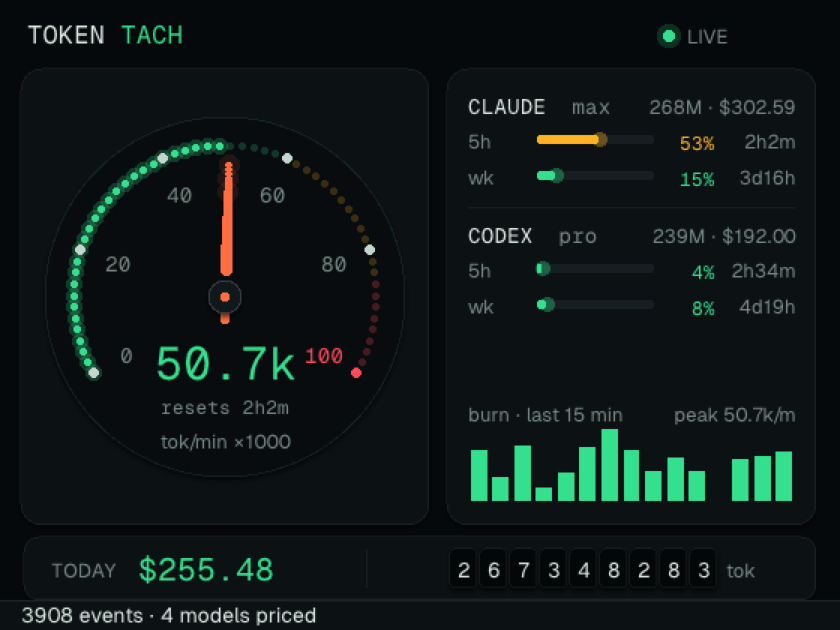
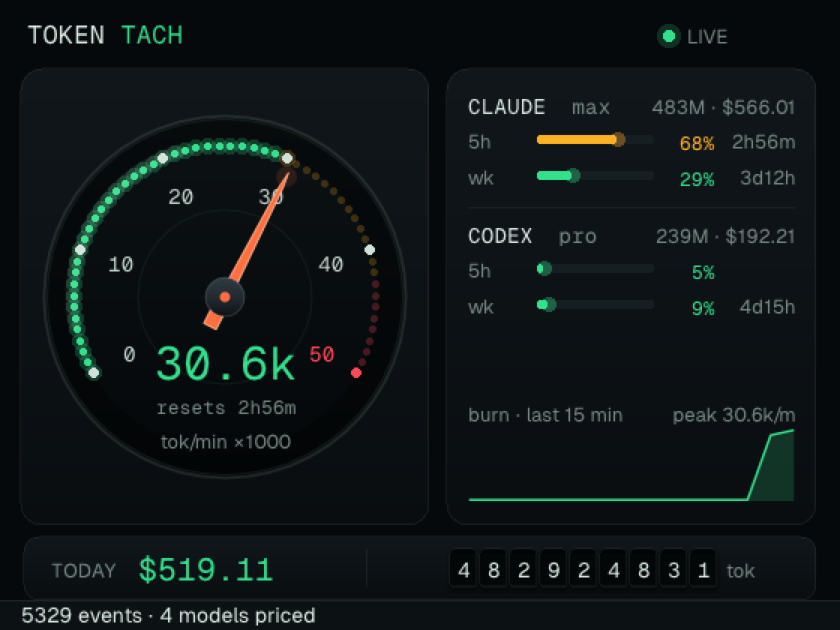
docs: README as narrative — craft story, perf numbers, fresh hero shots

diff --git a/README.md b/README.md
@@ -1,35 +1,70 @@
 # token-tach
 
 A macOS menu-bar tachometer for AI coding-agent token usage and subscription
-limits. LiteLLM-dashboard truth without the proxy: everything is read from
-the session ledgers your agents already write, plus each vendor's own limit
-data.
+limits. It reads the session ledgers your agents already write — no proxy,
+no accounts, no telemetry — and turns them into an instrument.
 
 ```
-⚡ 214k/m → wall 3:40p          ← the menu bar, all day
+⚡ 50.7k/m → wall 3:40p          ← the menu bar, all day
 ```
 
-Click it:
-
-```
-claude  172M tok · $202.80 · 5h 34% · wk 12% · max
-codex   188M tok · $154.16 · 5h 3%  · wk 8%  · pro
-today   $114.85 · 116M tok
-```
+One click:
 
 ![the tach cluster](docs/assets/cluster.png)
 
+And yes — the needle does the full ignition sweep every time you open it:
+
+![ignition sweep](docs/assets/ignition.png)
+
 ## What it shows
 
-- **Burn rate** — limit-weighted tokens/minute (cache reads at 0.1×),
-  decayed over a 15-minute window. The needle.
+- **Burn rate** — limit-weighted tokens/minute (cache reads at 0.1×, because
+  that's roughly how they press on your quota), decayed over a 15-minute
+  window. The needle.
 - **Predicted wall** — "at this pace you hit a limit at 3:40 PM", projected
   from the *slope of the vendors' own utilization numbers*, not guessed
   token capacities.
 - **Window utilization** — Claude 5-hour / weekly (server truth) and Codex
-  5-hour / weekly (embedded in its logs), with reset countdowns.
-- **Today's spend** — API-equivalent dollars for what your subscription
-  absorbed, priced against LiteLLM's model-price database.
+  5-hour / weekly (embedded in its own logs), with reset countdowns and
+  threshold coloring.
+- **Today's spend** — API-equivalent dollars your subscription absorbed,
+  priced against LiteLLM's model database, on a mechanical odometer.
+
+## Why it's fast
+
+The binary is **~2.4 MB** — no Electron, no webview, no JS runtime. Native
+Zig on [Native SDK](https://github.com/vercel-labs/native), drawing every
+pixel through Metal.
+
+- **Cold launch**: window up instantly; months of JSONL history parse in
+  byte-budgeted 30 ms background chunks (~600 ms total) that never block a
+  frame.
+- **Warm launch**: tailer offsets and ledger rollups persist to an atomic
+  state file, so the next launch restores in **~2 ms** and re-reads only
+  what grew.
+- **Steady state**: the 2-second sweep costs **~0.1 ms** when nothing
+  changed (dir-mtime + hot-file detection; full re-walk only every 30 s).
+
+## How it's built (the fun parts)
+
+- **The popover is a patched framework.** Native SDK had a tray API but no
+  `NSPopover`, no dock-less mode, no launch-at-login — so this repo vendors
+  [a fork](https://github.com/phall1/native/tree/token-tach-patches) that
+  adds all three to its Objective-C AppKit host, with the popover reparenting
+  the app's Metal surface in and out of an `NSViewController`.
+- **The needle is real geometry.** The widget grammar rasterizes rects
+  axis-aligned, so the blade is a tapered vector path drawn through the
+  chrome display-list seam — the one primitive that stays true under the
+  render-animation rotation channel. Rest pose is always truth; animations
+  replay only deltas.
+- **Server-truth limits, no scraping.** Claude's 5h/weekly utilization comes
+  from the same OAuth endpoint Claude Code's `/usage` uses. Codex is even
+  better: it writes its `rate_limits` straight into its rollout files —
+  zero network for OpenAI numbers.
+- **Everything is fixture-tested.** ~100 tests over the UI-free core
+  (tailers, pricing, prediction, ledger, config, state), and `scripts/verify`
+  launches the real app headlessly, toggles the actual popover, walks the
+  accessibility tree, and screenshots it — locally and in CI.
 
 ## Where the data comes from (the trust story)
 
@@ -38,35 +73,38 @@ today   $114.85 · 116M tok
 | Source | What | How |
 |---|---|---|
 | Claude Code | tokens per message | tails `~/.claude/projects/**/*.jsonl` (and `$CLAUDE_CONFIG_DIR`), dedupes on `message.id:requestId` |
-| Codex CLI | tokens **and** 5h/weekly limit % | tails `~/.codex/sessions/**` — Codex embeds `rate_limits` in its own logs, so no network is involved |
+| Codex CLI | tokens **and** 5h/weekly limit % | tails `~/.codex/sessions/**` — limits are embedded in the logs |
 | Pricing | $/token rates | bundled snapshot of LiteLLM's `model_prices_and_context_window.json` |
 
-**Opt-in (`claude-oauth = true` in the config):** Claude's *server-truth*
-window utilization comes from the same endpoint Claude Code's `/usage` uses:
+**Opt-in (`claude-oauth = true`):** Claude's server-truth utilization via
 `GET https://api.anthropic.com/api/oauth/usage` with your existing Claude
-Code OAuth token (read from the macOS Keychain item
-`Claude Code-credentials` via Apple's `security` tool — macOS will ask for
-consent). Polled every 180 s, exponential backoff on 429, nothing else is
-sent — the request carries only your token and standard headers. Off by
-default; the app never writes to the Keychain and never talks to any other
-host.
+Code OAuth token (read from the Keychain item `Claude Code-credentials`
+via Apple's `security` tool — macOS asks for consent). Polled every 180 s,
+exponential backoff on 429. The request carries your token and standard
+headers, nothing else, to that host and no other. The app never writes to
+the Keychain. Off by default.
 
 ## Install
 
 ```sh
 git clone --recurse-submodules https://github.com/phall1/token-tach
 cd token-tach
-scripts/setup        # hooks, submodules, toolchain check (zig ≥ 0.16, native CLI)
-native build && ./zig-out/bin/token-tach
+scripts/setup                          # hooks, submodules, toolchain, fork CLI
+vendor/native/zig-out/bin/native build
+open zig-out/bin/token-tach            # or scripts/release for a .app/DMG
 ```
 
-Package a .app / DMG: `scripts/release` (adhoc) or
-`scripts/release --identity "Developer ID Application: …" --notarize`.
+Or grab the DMG from
+[releases](https://github.com/phall1/token-tach/releases) (adhoc-signed for
+now: right-click → Open the first time).
+
+It's an accessory app: no Dock icon — look for the glance in the menu bar.
+Left-click for the cluster, right-click for quick stats and Quit.
 
 ## Configure
 
-`~/.config/token-tach/config` — plain `key = value`, ghostty-style, every
-default overridable:
+`~/.config/token-tach/config` — plain `key = value`, ghostty-style,
+**live-reloaded** (edit it and watch the tray re-template within a tick):
 
 ```ini
 # the menu-bar template: {burn} {eta} {pct} {tok} {cost}
@@ -83,37 +121,25 @@ source = claude, codex     # enable/disable agents
 ## Development
 
 ```sh
-scripts/verify   # check + test + build + headless smoke drive
-native dev       # run with hot-reloading .native markup
+scripts/verify   # check + test + build + headless popover smoke drive
+native dev       # hot-reloading dev run
 ```
 
-See `docs/DEVELOPMENT.md` for the full loop, the SDK's built-in agent docs
-(`native skills get core`), and the vendored-fork rebase procedure.
-
-## Architecture
-
-Built on the [Native SDK](https://github.com/vercel-labs/native) (Zig,
-compiled declarative markup, own Metal renderer — no Electron, no webview;
-the binary is a few MB). The repo vendors a fork at `vendor/native` carrying
-small AppKit-host patches (tray popover, dock-less mode, launch-at-login)
-that are being upstreamed.
+See `docs/DEVELOPMENT.md` for the loop, the SDK's built-in agent docs, and
+the vendored-fork rebase procedure.
 
 ```
-src/core/       UI-free engine: tailers, pricing, ledger, prediction, oauth
+src/core/       UI-free engine: tailers, pricing, ledger, prediction, oauth, state
 src/engine.zig  the TEA loop: timers → sweep → ledger/burn/walls → display
-src/main.zig    shell: window scene, status item, runtime entry
+src/view.zig    the instrument cluster (canvas + vector chrome)
+src/main.zig    shell: scene, status item, popover, runtime entry
 ```
-
-Everything in `src/core` is fixture-tested and also powers the planned
-`token-tach --json` CLI.
 
 ## Status
 
-v1.0: tray glance, popover instrument cluster, both tailers, pricing,
-prediction, server-truth limits, live config reload — all shipped and
-verified. Next: notifications, history dashboard, `--json` CLI — see the
-issue tracker (this repo uses
-[beads](https://github.com/steveyegge/beads): `bd list`).
+v0.2: ignition sweep, machined dial, warm launches, live config reload.
+Next: notifications, history dashboard, `--json` CLI — tracked in
+[beads](https://github.com/steveyegge/beads) (`bd list`).
 
 ## License
 